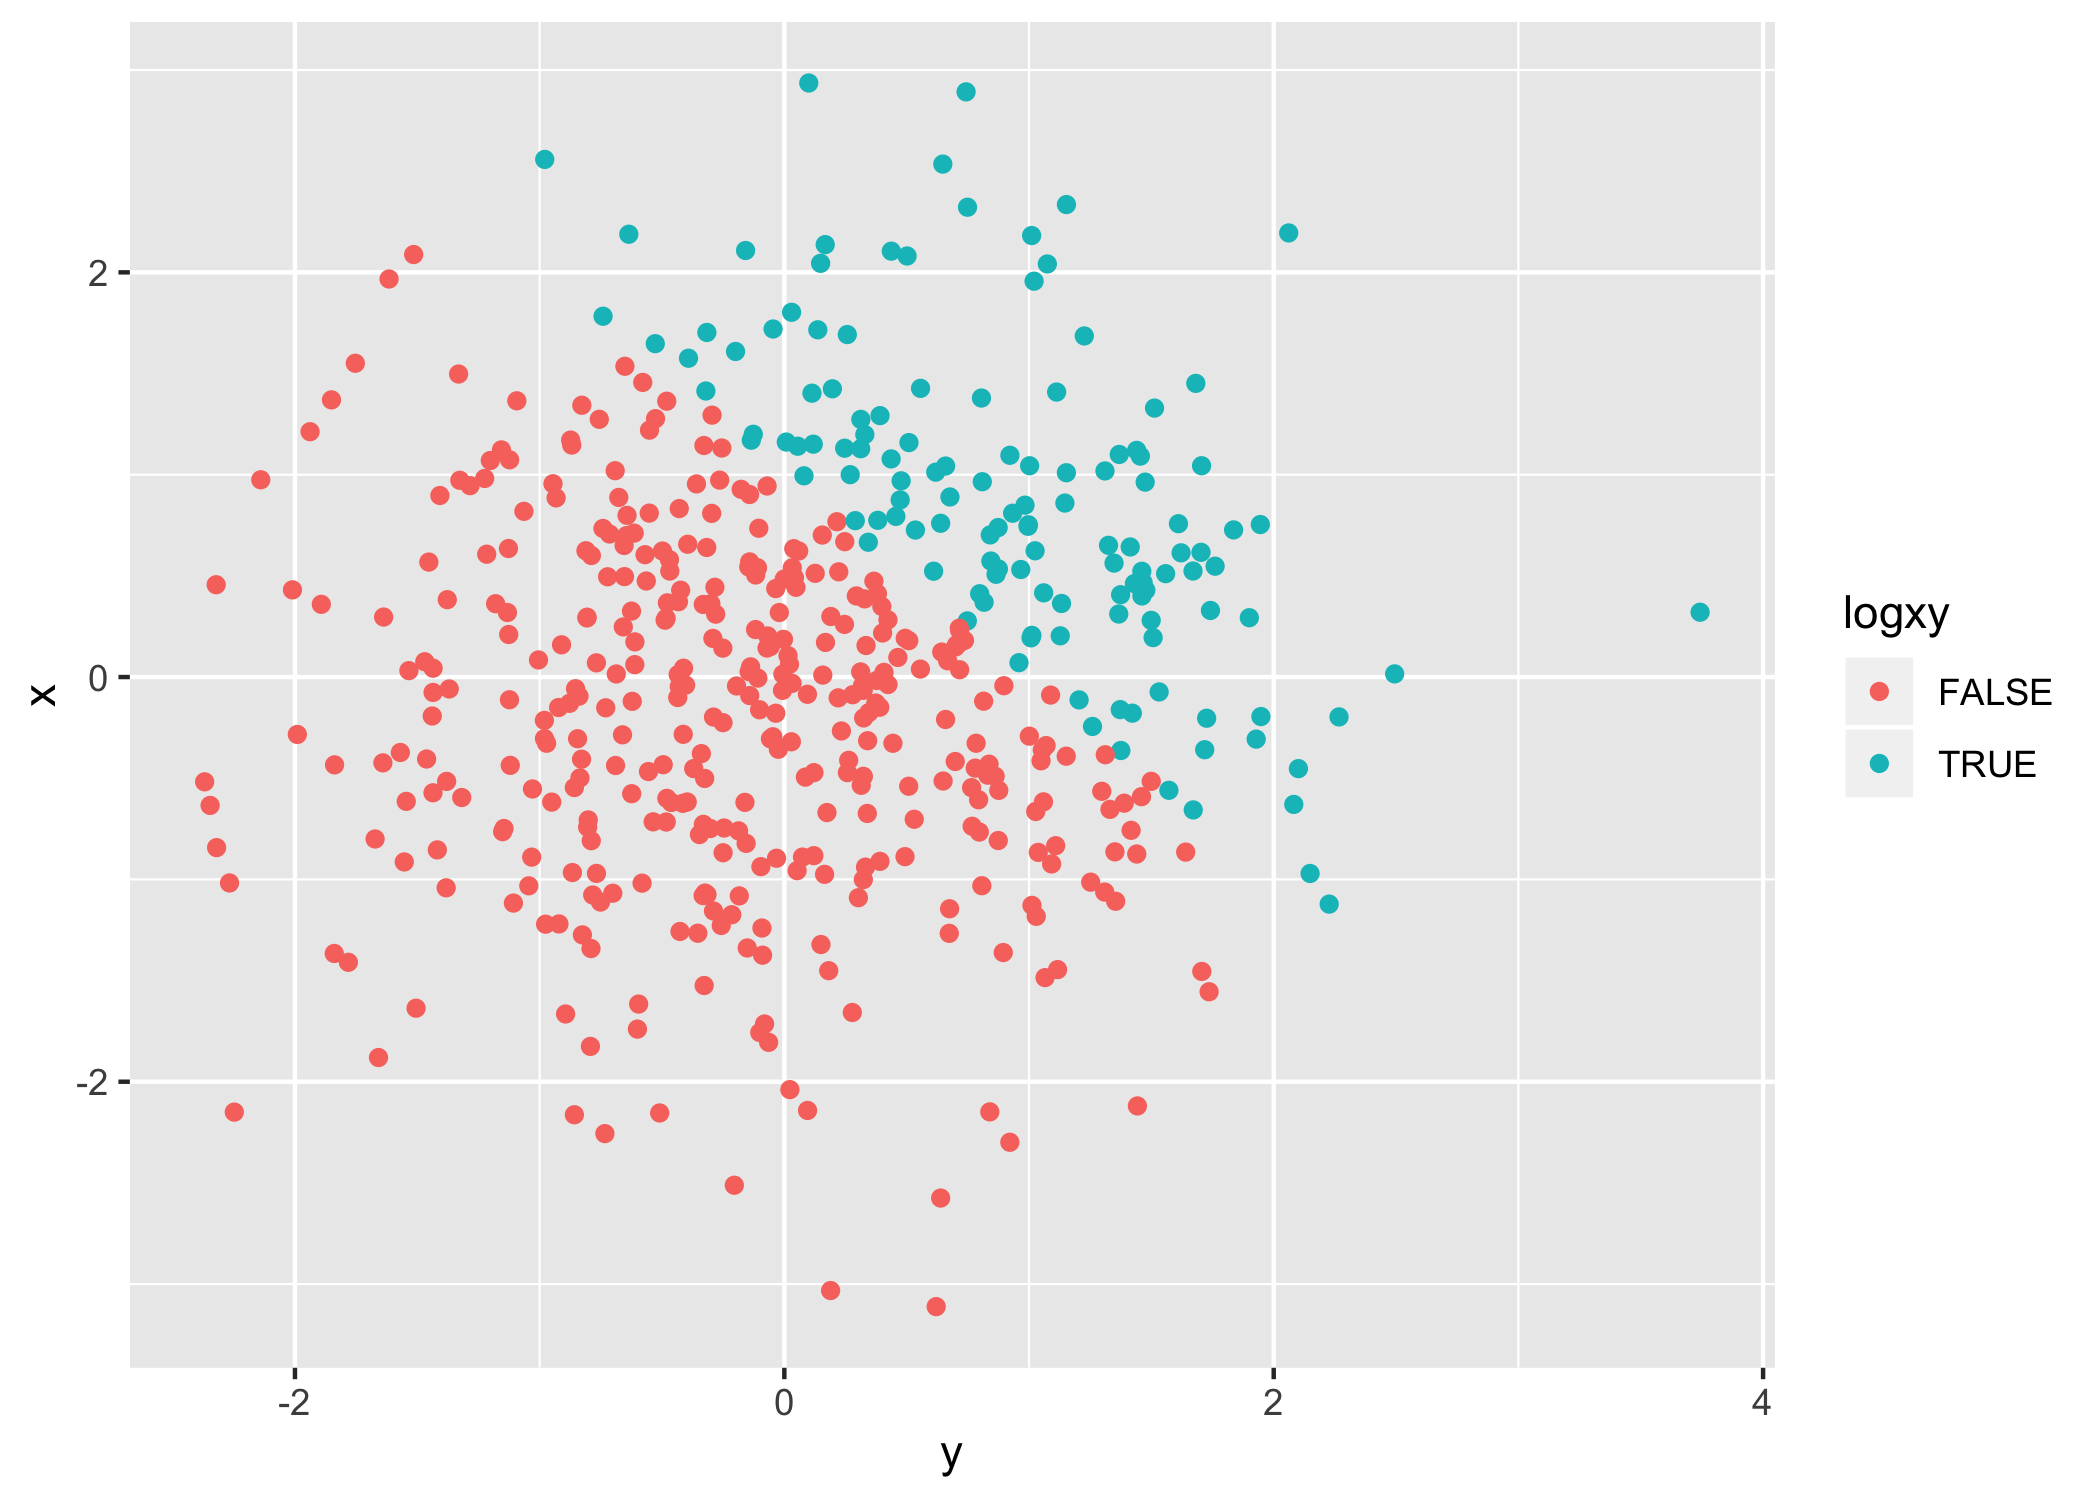
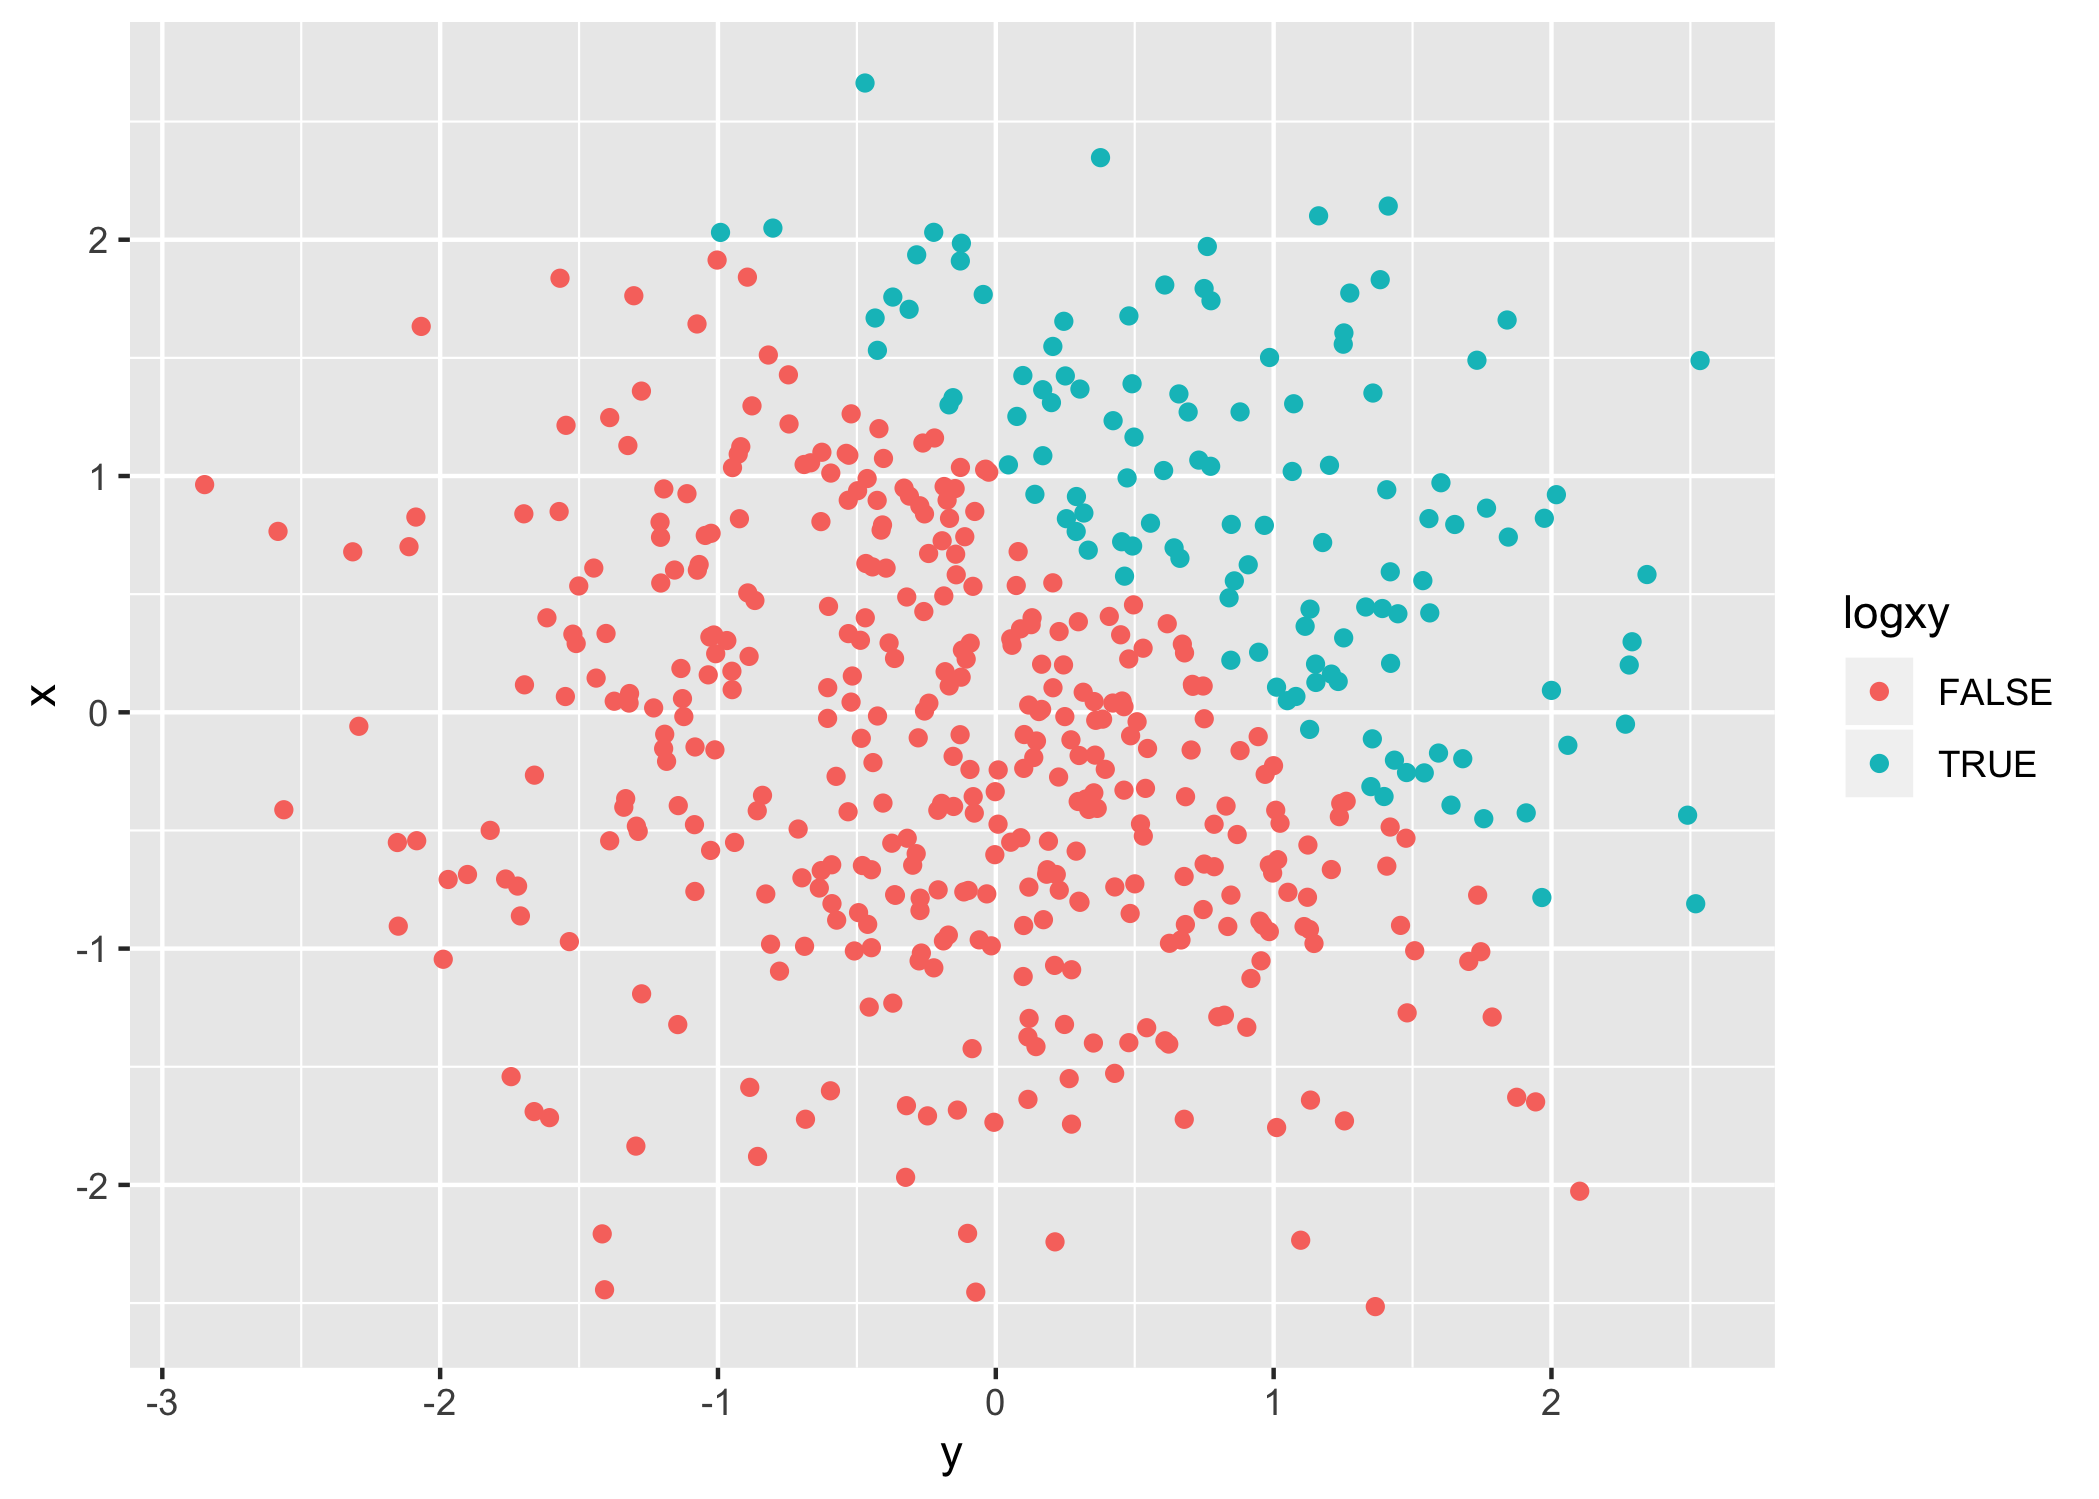
Cleaned up some of the answers/explanations

diff --git a/p8105_hw1_bsr2136.md b/p8105_hw1_bsr2136.md
@@ -7,6 +7,16 @@ September 19, 2019
 
 ### Problem 1.1 - Data Frame, Vectors, and Means
 
+First I will create a data frame with 4 variables that are:
+
+1.  A random sample of 8 values from the standard normal
+2.  A logical vector indicating whether those values from the previous
+    variable are above 0
+3.  A character vector of length 8 with 8 different letters
+4.  A factor vector of length 8 with 3 factor levels, H, M, and L
+
+Then I will attempt to take the means of each variable.
+
 ``` r
 vec_df <- tibble(
 normal_sample_vec = rnorm(8),
@@ -18,13 +28,13 @@ factor_vec = as.factor(c('H','M','L','H','M','L','H','M'))
 mean(pull(vec_df,normal_sample_vec))
 ```
 
-    ## [1] 0.1180176
+    ## [1] -0.6605786
 
 ``` r
 mean(pull(vec_df,logic_vec))
 ```
 
-    ## [1] 0.5
+    ## [1] 0.375
 
 ``` r
 mean(pull(vec_df,char_vec))
@@ -47,10 +57,12 @@ mean(pull(vec_df,factor_vec))
 I can take the mean of the numeric and logical vectors, and the result
 returned is a numeric. Trying to take the mean of the character and
 factor vectors returns NA, and gives me the warning that the argument is
-not numeric and
-logical.
+not numeric or logical.
 
-### Problem 1.2 - converting logic,char, and factor vectors using as.numeric
+### Problem 1.2 - Converting Variables
+
+I will try to convert the three non-numeric vectors to numeric, and see
+what the results are.
 
 ``` r
 as.numeric(pull(vec_df,logic_vec))
@@ -68,19 +80,28 @@ with the logical vector taking the values 0 and 1, and the factor vector
 taking the values 1,2, and 3 (the number of levels). The character
 vector returned a numeric vector of all NAs and returned the warning
 “NAs introduced by coercion”. This clearly explains what the mean of
-the logic vector was, and why the character vector mean was NA. The
+the logical vector was, and why the character vector mean was NA. The
 factor vector changed significantly when converted to numeric, which
-explains why the mean returned NA
-    originally.
+helps explain why the mean returned NA originally.
 
-### Problem 1.3 - Convert and Multiply
+### Problem 1.3 - Convert Variables and Multiply
+
+I will convert the logical vector to:
+
+1.  numeric
+2.  factor
+3.  factor, then convert again to numeric
+
+and multiply each of those by the vector of random samples from the
+standard
+    normal.
 
 ``` r
 as.numeric(pull(vec_df,logic_vec)) * pull(vec_df,normal_sample_vec)
 ```
 
-    ## [1] 0.0000000 0.0000000 0.6630497 0.0000000 0.2938607 0.0000000 0.7473394
-    ## [8] 1.0629979
+    ## [1] 0.00000000 0.00000000 0.00000000 0.00000000 0.00000000 0.06526792
+    ## [7] 0.26328588 0.21313035
 
 ``` r
 as.factor(pull(vec_df,logic_vec)) * pull(vec_df,normal_sample_vec)
@@ -95,12 +116,23 @@ as.factor(pull(vec_df,logic_vec)) * pull(vec_df,normal_sample_vec)
 as.numeric(as.factor(pull(vec_df,logic_vec))) * pull(vec_df,normal_sample_vec)
 ```
 
-    ## [1] -0.3568644 -0.3311399  1.3260993 -0.1699756  0.5877215 -0.9651266
-    ## [7]  1.4946787  2.1259958
+    ## [1] -0.8891444 -0.7702928 -2.0404272 -0.4008858 -1.7255624  0.1305358
+    ## [7]  0.5265718  0.4262607
 
 ## Problem 2 - Inline R Coding and plotting
 
-### Problem 2.1 - Tibble with inline code
+### Problem 2.1 - Tibble with Inline Code
+
+I will create a data frame with 5 variables:
+
+1.  A random sample of size 500 from the standard normal
+2.  Another random sample of size 500 from the standard normal
+3.  A logical vector indicating whether the value from the 1st variable
+    plus the value from the 2nd is greater than 1
+4.  Variable 3 converted to numeric
+5.  Variable 3 converted to factor.
+
+And then I will describe the dataframe with inline code comments
 
 ``` r
 plot_df <- tibble(
@@ -111,14 +143,13 @@ plot_df <- tibble(
   facxy = as.factor(logxy)
 )
 
-
+# The number of rows in the dataset are
 nrow(plot_df)
 ```
 
     ## [1] 500
 
 ``` r
-# The number of rows in the dataset are
 # The number of columns in the dataset are
 ncol(plot_df)
 ```
@@ -130,45 +161,73 @@ ncol(plot_df)
 mean(pull(plot_df,x))
 ```
 
-    ## [1] 0.05174479
+    ## [1] 0.0286619
 
 ``` r
 # The median of x is
 median(pull(plot_df,x))
 ```
 
-    ## [1] 0.05590442
+    ## [1] 0.02724575
 
 ``` r
 # The standard deviation of x is
 sd(pull(plot_df,x))
 ```
 
-    ## [1] 0.9745209
+    ## [1] 0.9636019
 
 ``` r
 # The proportion of cases where x + y > 1 is
 sum(pull(plot_df,logxy))/500
 ```
 
-    ## [1] 0.264
+    ## [1] 0.24
 
 ### Problem 2.2 Making Scatterplots
 
+I will now make a scatterplot of y vs x (the 2 random samples), and will
+color the points by the logical vector indicating whether x+y\>1. I will
+then make 2 more plots in which I color the points using the 4th and 5th
+variables in the datafame, where the logical vector was converted to
+numeric and factor, respectively.
+
 ``` r
-sc_plot1 <- plot_df %>%
+sc_plot_log <- plot_df %>%
   ggplot(aes(y,x,color = logxy)) + geom_point()
-#The colors shown are red and blue and they represent the values FALSE and TRUE, respectively.
+sc_plot_log
+```
 
-sc_plot2 <- plot_df %>%
+![](p8105_hw1_bsr2136_files/figure-gfm/Problem%202.2-1.png)<!-- -->
+
+``` r
+# The colors shown are red and blue and they represent the values 
+# FALSE and TRUE, respectively.
+
+sc_plot_num <- plot_df %>%
   ggplot(aes(y,x,color = numxy)) + geom_point()
-# The legend for the color scale in the above plot is continuous, from dark blue to light blue (0 to 1), but still displays in the points as binary, because the values are either 0 or 1
+sc_plot_num
+```
 
-sc_plot3 <- plot_df %>%
+![](p8105_hw1_bsr2136_files/figure-gfm/Problem%202.2-2.png)<!-- -->
+
+``` r
+# The legend for the color scale in the above plot is continuous, from dark blue
+# to light blue (0 to 1), but still displays in the plot as binary, because the
+# values are either 0 or 1
+
+sc_plot_fac <- plot_df %>%
   ggplot(aes(y,x,color = facxy)) + geom_point()
-# The colors and legend in this plot appear identical to plot1 with the logical vector being used as color
+sc_plot_fac
+```
 
-ggsave('xy_scatterplot.png',plot = sc_plot1)
+![](p8105_hw1_bsr2136_files/figure-gfm/Problem%202.2-3.png)<!-- -->
+
+``` r
+# The colors and legend in this plot appear identical to plot1 where the 
+# logical vector was being used as color
+
+ggsave('xy_scatterplot.png',plot = sc_plot_log)
 ```
 
     ## Saving 7 x 5 in image
